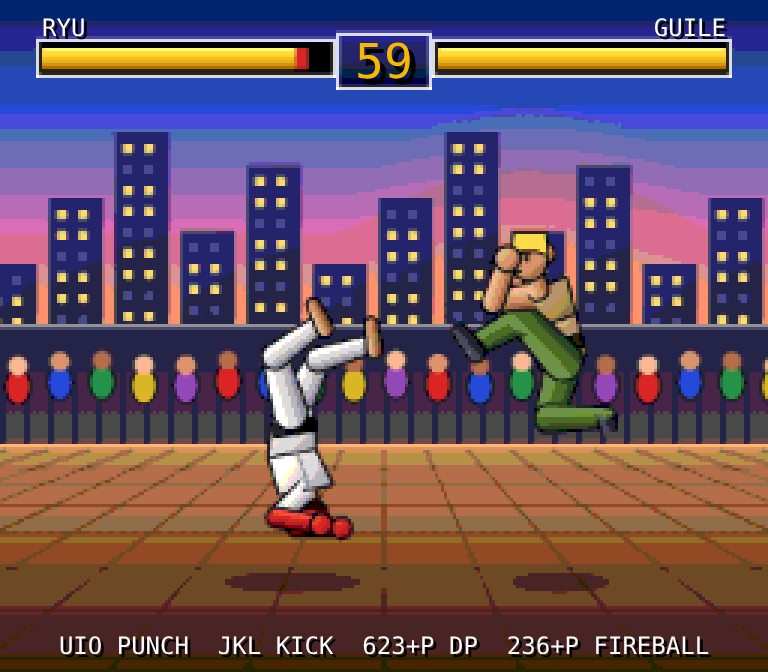
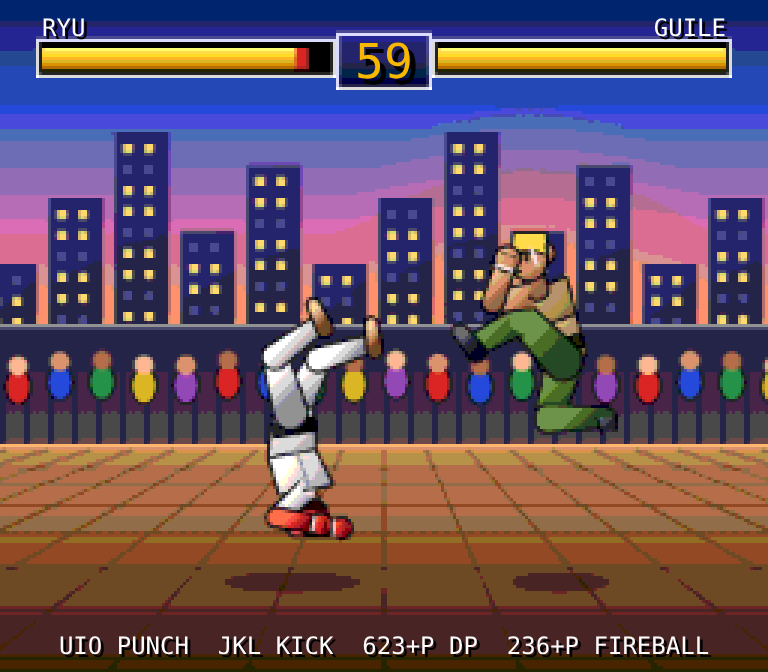
g37p: world-space limb lighting (no knee discs), fists with knuckle line and wrist cuff
Claude-Session: https://claude.ai/code/session_01TLKWsn45b5mPjBKpKawYZm

Changed region(s): [[0.5938, 0.3438, 0.8125, 0.6562], [0.3438, 0.4375, 0.5, 0.6562], [0.3438, 0.7188, 0.4688, 0.8125]]

diff --git a/kit/cabinet/games/g37p.js b/kit/cabinet/games/g37p.js
@@ -99,9 +99,10 @@ function limb(g, a, b, w1, w2, cols, fl) {
   const dx = b[0] - a[0], dy = b[1] - a[1], n = Math.hypot(dx, dy) || 1; let nx = -dy / n, ny = dx / n; if (nx + ny > 0) { nx = -nx; ny = -ny; }   // normal toward the lit side
   const path = e => { g.beginPath(); g.moveTo(a[0] + nx * (w1 + e), a[1] + ny * (w1 + e)); g.lineTo(b[0] + nx * (w2 + e), b[1] + ny * (w2 + e)); g.arc(b[0], b[1], w2 + e, Math.atan2(ny, nx), Math.atan2(-ny, -nx), false); g.lineTo(a[0] - nx * (w1 + e), a[1] - ny * (w1 + e)); g.arc(a[0], a[1], w1 + e, Math.atan2(-ny, -nx), Math.atan2(ny, nx), false); g.closePath(); };
   g.fillStyle = OL; path(0.9); g.fill(); const mx = (a[0] + b[0]) / 2, my = (a[1] + b[1]) / 2, w = (w1 + w2) / 2;
-  g.fillStyle = fl ? '#fff' : lg(g, mx + nx * w, my + ny * w, mx - nx * w, my - ny * w, cols); path(0); g.fill(); }
+  g.fillStyle = fl ? '#fff' : lg(g, mx - .8 * w, my - .8 * w, mx + .8 * w, my + .8 * w, cols); path(0); g.fill(); }   /* fixed world-space light: adjoining limbs shade alike, no dark disc at knees/elbows */
 function blob(g, x, y, rx, ry, cols, fl, rot) { g.save(); g.translate(x, y); g.rotate(rot || 0); g.fillStyle = OL; g.beginPath(); g.ellipse(0, 0, rx + .9, ry + .9, 0, 0, 6.283); g.fill(); g.fillStyle = fl ? '#fff' : lg(g, -rx, -ry, rx, ry, cols); g.beginPath(); g.ellipse(0, 0, rx, ry, 0, 0, 6.283); g.fill(); g.restore(); }
 function poly(g, pts, cols, fl) { g.beginPath(); pts.forEach((p, i) => i ? g.lineTo(p[0], p[1]) : g.moveTo(p[0], p[1])); g.closePath(); g.lineJoin = 'round'; g.lineWidth = 1.8; g.strokeStyle = OL; g.stroke(); const xs = pts.map(p => p[0]), ys = pts.map(p => p[1]); g.fillStyle = fl ? '#fff' : lg(g, Math.min(...xs), Math.min(...ys), Math.max(...xs), Math.max(...ys), cols); g.fill(); }
+function fist(g, e, hd, w, fl) { if (fl) return; const dx = hd[0] - e[0], dy = hd[1] - e[1], n = Math.hypot(dx, dy) || 1, ux = dx / n, uy = dy / n; g.strokeStyle = 'rgba(0,0,0,.55)'; g.lineWidth = .8; g.beginPath(); g.moveTo(hd[0] - uy * w(3.6) + ux * w(2), hd[1] + ux * w(3.6) + uy * w(2)); g.lineTo(hd[0] + uy * w(3.6) + ux * w(2), hd[1] - ux * w(3.6) + uy * w(2)); g.stroke(); g.strokeStyle = 'rgba(255,255,255,.85)'; g.lineWidth = w(1.8); g.beginPath(); g.moveTo(hd[0] - ux * w(4.6) - uy * w(4), hd[1] - uy * w(4.6) + ux * w(4)); g.lineTo(hd[0] - ux * w(4.6) + uy * w(4), hd[1] - uy * w(4.6) - ux * w(4)); g.stroke(); }
 function fighterHD(S, g, f, sh, sy) {
   const C = TUNE37, r = poseOf37(S, f), J = PRIG.skelG(r.pose, r.env, r.ph, r.rot), k = C.sc / 150, ry = f.ch === 'ryu', fl = f.flash > 0, fc = f.face, ox = f.x + sh, oy = FY37 - f.y + sy;
   const P = n => [ox + fc * J[n][0] * k, oy - J[n][1] * k], H = P('head'), Hp = P('hip'), Sh = P('sh'), big = ry ? 1 : 1.16, w = v => v * k * big;
@@ -122,7 +123,7 @@ function fighterHD(S, g, f, sh, sy) {
   if (ry) { g.fillStyle = fl ? '#fff' : '#201418'; g.beginPath(); g.ellipse(H[0] - fc * w(1.2), H[1] - w(3), w(8.8), w(7), 0, Math.PI, 6.283); g.fill(); g.fillStyle = fl ? '#fff' : '#e03030'; g.fillRect(H[0] - w(9), H[1] - w(4.4), w(18), w(3.2)); const t = S.rt * 9; for (let i = 0; i < 2; i++) { g.strokeStyle = fl ? '#fff' : '#e03030'; g.lineWidth = w(2); g.beginPath(); g.moveTo(H[0] - fc * w(8), H[1] - w(3)); g.lineTo(H[0] - fc * (w(16) + i * 3), H[1] - w(3) + Math.sin(t + i) * 2 + i * 3); g.stroke(); } }
   else { g.fillStyle = fl ? '#fff' : '#f4dc58'; g.beginPath(); g.moveTo(H[0] - w(8.4), H[1] - w(2)); g.lineTo(H[0] - w(7), H[1] - w(13)); g.lineTo(H[0] + w(8), H[1] - w(13)); g.lineTo(H[0] + w(8.6), H[1] - w(3)); g.lineTo(H[0] + w(4), H[1] - w(5)); g.lineTo(H[0] - w(4), H[1] - w(5)); g.closePath(); g.lineWidth = 1.6; g.strokeStyle = OL; g.stroke(); g.fill(); }
   const ex = H[0] + fc * w(4.6), ey = H[1] - w(.6); g.fillStyle = fl ? '#fff' : OL; g.fillRect(ex - .5, ey - w(1.4), 1.5, w(2.6)); g.fillRect(ex - fc * w(3.2) - .5, ey - w(1.4), 1.5, w(2.6)); g.fillRect(ex - fc * w(1) - w(2), ey - w(3.4), w(7) * 0.9, 1); g.fillRect(ex - w(1) + fc, H[1] + w(4.6), w(3.4), 1);
-  blob(g, P('handA')[0], P('handA')[1], w(5.6), w(5.6), ry ? glove : skin, fl); limb(g, P('shA'), P('elbA'), w(5.8), w(4.8), ry ? gi : skin, fl); limb(g, P('elbA'), P('handA'), w(4.8), w(4.4), ry ? glove : skin, fl); blob(g, P('handA')[0], P('handA')[1], w(5.6), w(5.6), ry ? glove : skin, fl);
+  blob(g, P('handA')[0], P('handA')[1], w(5.6), w(5.6), ry ? glove : skin, fl); limb(g, P('shA'), P('elbA'), w(5.8), w(4.8), ry ? gi : skin, fl); limb(g, P('elbA'), P('handA'), w(4.8), w(4.4), ry ? glove : skin, fl); blob(g, P('handA')[0], P('handA')[1], w(5.6), w(5.6), ry ? glove : skin, fl); fist(g, P('elbA'), P('handA'), w, fl); fist(g, P('elbB'), P('handB'), w, fl);
 }
 function drawHD37(S, g) {
   const C = TUNE37, sh = S.ecam && S.ecam.sh > 0 ? (S.rng() - .5) * S.ecam.sh * .5 : 0, sy = S.ecam && S.ecam.sh > 3 ? (S.rng() - .5) * S.ecam.sh * .3 : 0, t = S.rt;
